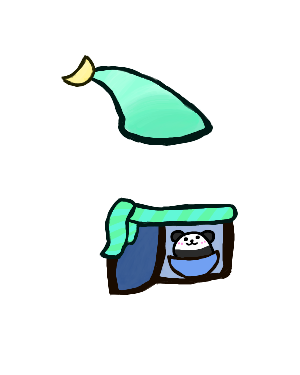
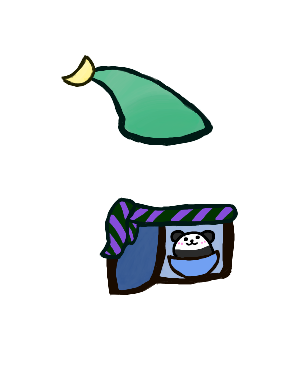
色、マフラーの色を変更

Changed region(s): [[0.3, 0.176, 0.69, 0.3813], [0.36, 0.528, 0.78, 0.704]]

diff --git a/README.md b/README.md
@@ -1,2 +1,3 @@
-# Yoran_Costumes
-Yoran_Costume
+# りーどみ
+夜藍が作ったコスメを置く場所です<br>
+なにかあれば夜藍[X](https://x.com/Yoran_FuranOshi)・[Bluesky](https://bsky.app/profile/yoran-furanoshi.bsky.social)・Discord(@yoran_furanoshi)まで<br>
